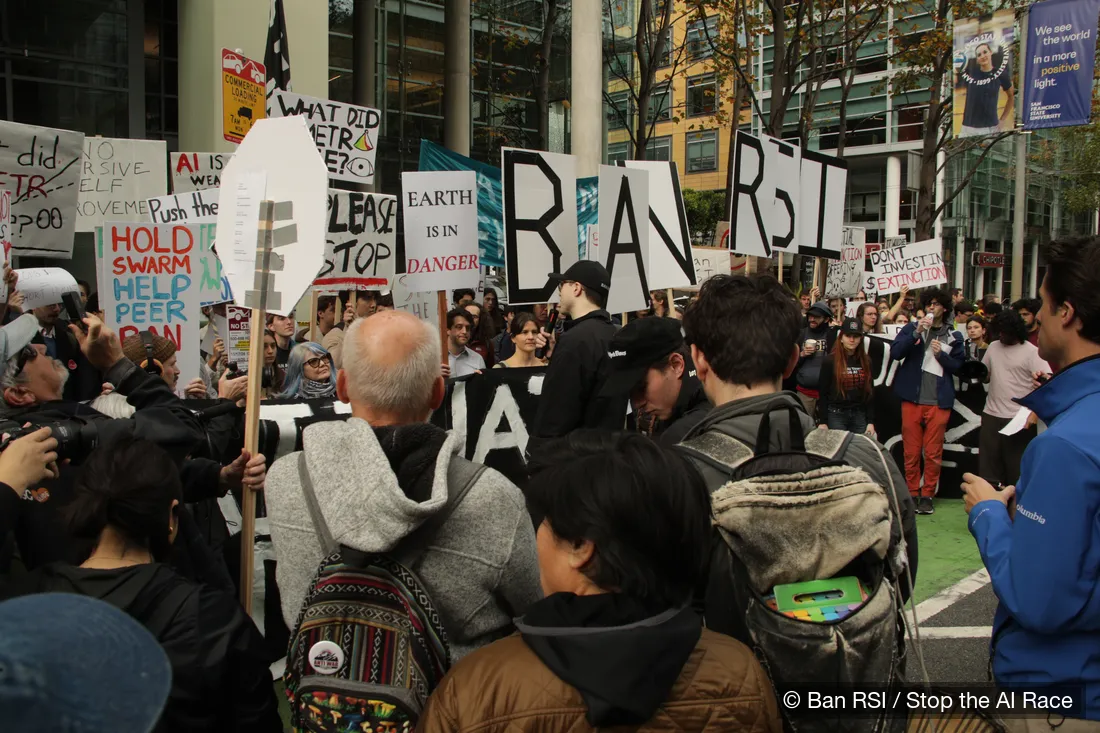
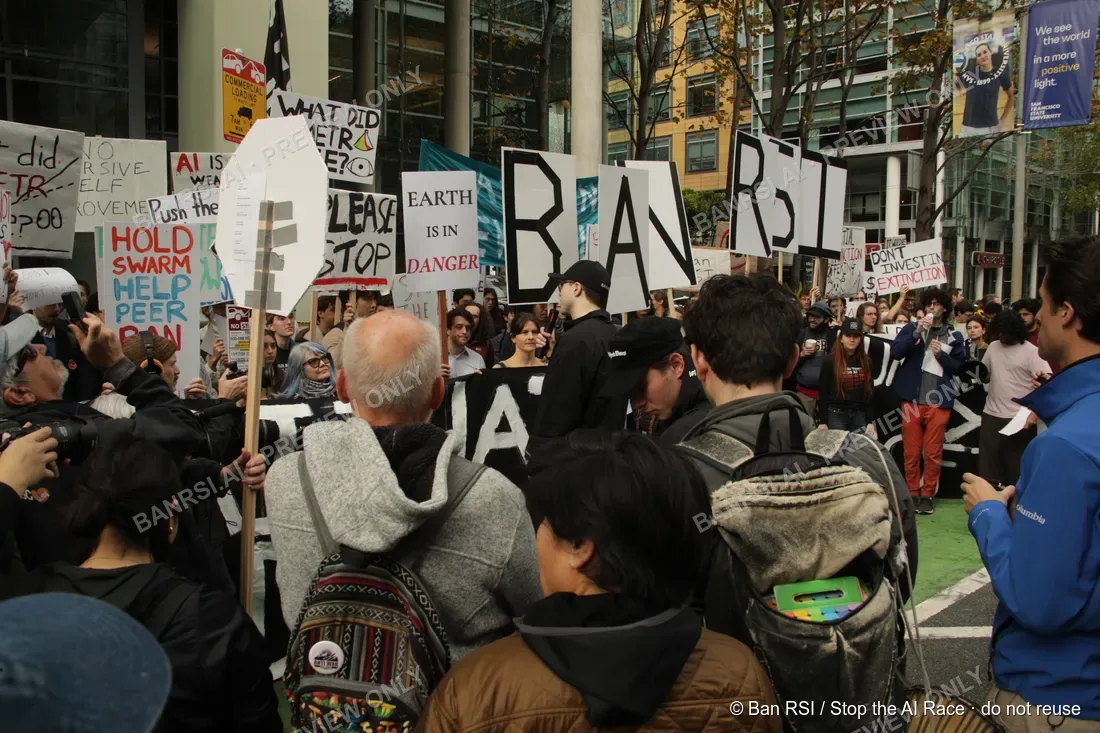
Ban RSI vote: diagonal 'BANRSI.AI · PREVIEW ONLY' watermark and '© … · do not reuse' corner, like the treaty march vote
Rebuilt from the unwatermarked files (07fb660^), copyright metadata kept. Press photos unchanged.

diff --git a/banrsi/vote/vote.js b/banrsi/vote/vote.js
@@ -5,7 +5,7 @@
   const { album, count } = window.VOTE;
   const API = (window.VOTE_API || '').replace(/\/$/, '');
   const ids = Array.from({ length: count }, (_, i) => `${album}-${String(i + 1).padStart(3, '0')}`);
-  const src = id => `/banrsi/vote/p/${id}.webp?v=2`;   // bump v when the photo files change (watermark added: v=2)
+  const src = id => `/banrsi/vote/p/${id}.webp?v=3`;   // bump v when the photo files change (v=3: diagonal PREVIEW ONLY watermark)
   const TOPK = window.VOTE.topK || 3;
   const $ = s => document.querySelector(s);
 
